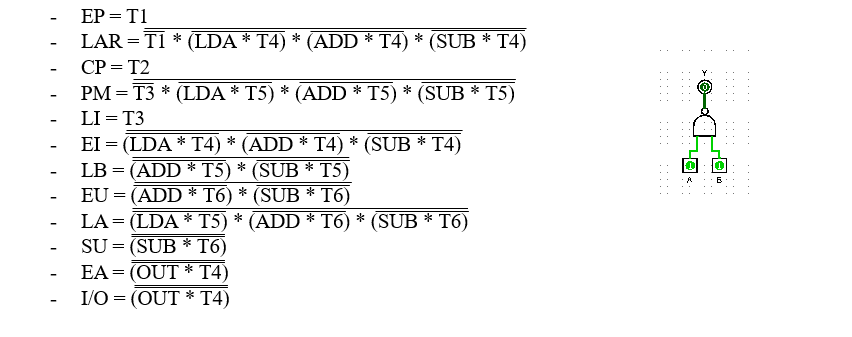
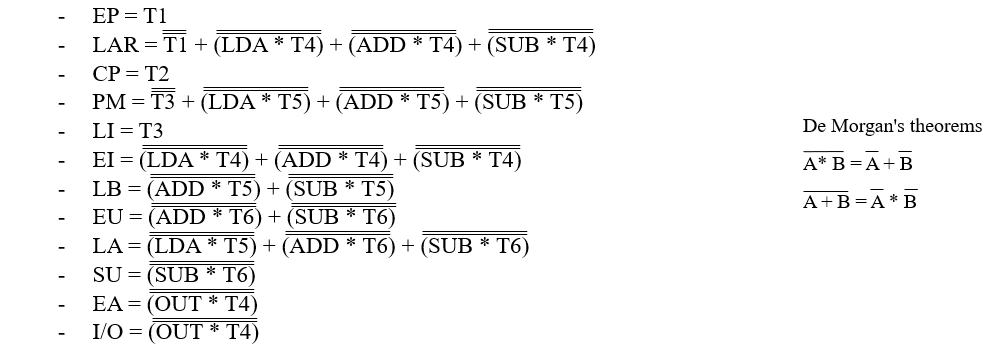
modified:   Pictures/Figure8.png

Changed region(s): [[0.0915, 0.178, 0.6103, 0.9792], [0.0915, 0.0, 0.6103, 0.178], [0.7934, 0.2374, 0.9765, 0.5935]]

diff --git a/README.md b/README.md
@@ -337,13 +337,13 @@ The solution is to use De Morgan's theorems:
 
 From our equations we have obtained terms of the form (LDA * T4) which represents a two-input AND gate. But we want to use NAND gates instead of AND gates. The solution is to use a NAND gate followed by an inverter, thus preserving the previous function.
 
-![ Figure 6 ](/Pictures/Figure6.png)
+![ Figure 7 ](/Pictures/Figure7.png)
 
 The equation in the left term represents the double negation which leads to the cancellation of the negation.
 
 So, the term on the right that is present in each parenthesis in our equations can be replaced with the term on the left side in the figure above.
 
-![ Figure 7 ](/Pictures/Figure7.png)
+![ Figure 8 ](/Pictures/Figure8.png)
 
 If we look at De Morgan's first Theorem we notice that the term on the right is a sum of negated elements.
 
